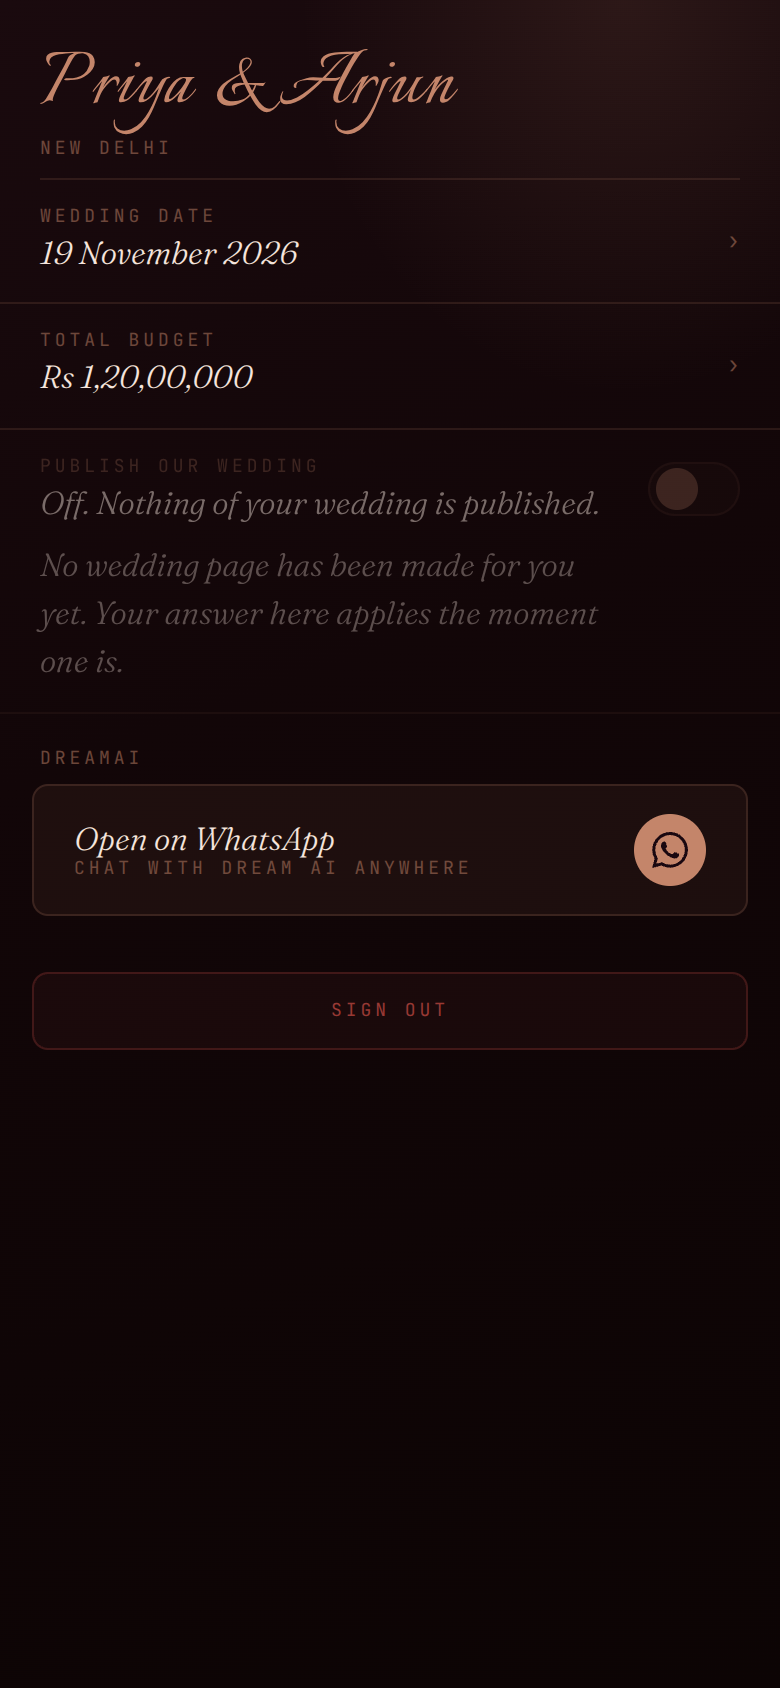
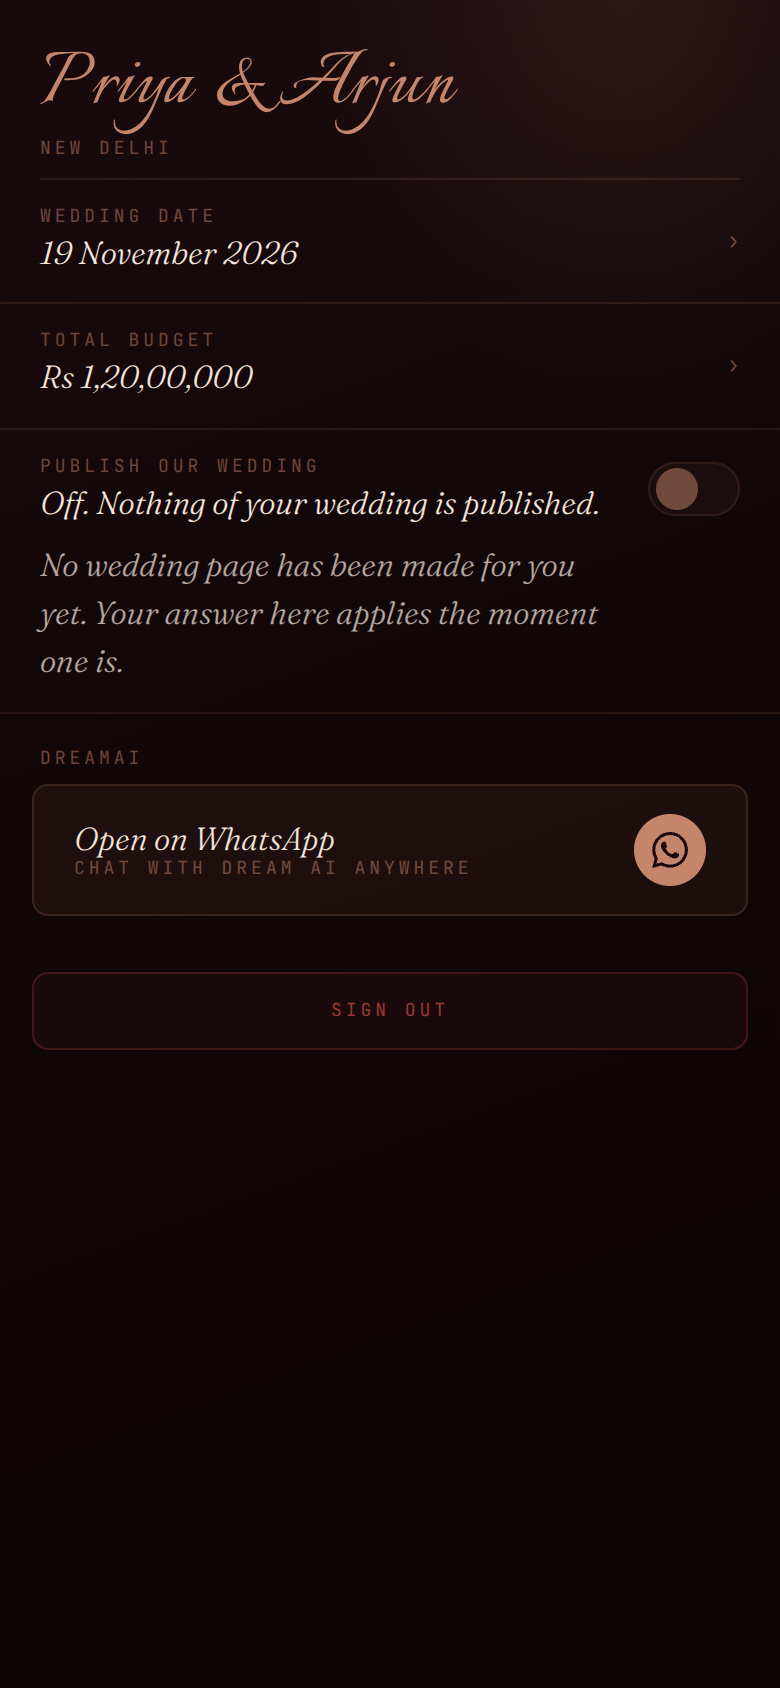
TDW_19 G1.1c mock rider: R-G11c.8 - the switch is always operable. C3 redrawn live, the inert rule deleted, C4 (on, no page) added by the seat and marked. 4 frames, 16 captures. Docs only.

Changed region(s): [[0.0615, 0.2773, 0.7692, 0.4005], [0.8308, 0.2773, 0.8923, 0.3081]]

diff --git a/docs/mocks/couple-switch-mock.html b/docs/mocks/couple-switch-mock.html
@@ -16,7 +16,7 @@
      The subject is `components/frost/blooms/settings.tsx` (SettingsRoom :25),
      mounted at app/(frost)/frost/canvas/sanctuary/page.tsx:1145. Every colour,
      type size, tracking and padding below is TRANSCRIBED from that file at
-     dreamos-pwa 34ec619, not renegotiated:
+     dreamos-pwa 74e875e, not renegotiated:
        dark  bg :28 · ink #F5E5DC :30 · inkSoft rgba(245,229,220,.72) :31
              inkMute rgba(196,133,106,.50) :32 · line rgba(196,133,106,.14) :33
              rowBg rgba(196,133,106,.05) :34 · rowBdr rgba(196,133,106,.12) :35
@@ -68,13 +68,30 @@
      ('Partner', '—', 'Not set yet') where those are null. Stated so the founder
      is not surprised on his own glass.
 
-     ── C3 IS THE RULED STATE, NOT A DECORATION (R-G11c.6) ─────────────────────
-     Visible, NOT operable, until a `weddings` row carries her `couple_id`.
-     `couple_consent` lives only on `weddings` rows (0131:58); with none of them
-     hers there is nowhere for her answer to persist, and an operable switch
-     that reverts on the next mount is the lying control this room already
-     retired once (settings.tsx:167-173). The affordance follows the ROW,
-     never component state.
+     ── THE SWITCH IS ALWAYS OPERABLE (R-G11c.8, superseding R-G11c.6) ────────
+     The first cut of this mock drew C3 DIMMED, because under R-G11c.6 her
+     answer had nowhere to live before a `weddings` row was hers. The chair
+     struck that: a dimmed switch is the greyed control this arc has refused
+     three times, and the cure is a home for the fact rather than a disabled
+     affordance. `0132` gives `couples.publish_weddings boolean NOT NULL
+     DEFAULT false` — her standing answer, hers alone — and `me.js`'s door
+     writes it and `weddings.couple_consent` in the same transaction, while
+     `createWedding` SEEDS consent from it at the moment it resolves her
+     `couple_id` through the engagements spine.
+     SO NOTHING HERE IS EVER GREYED. C3 and C4 draw a LIVE switch beside line 5,
+     and line 5's promise — "your answer here applies the moment one is" — is
+     now literally what the code does rather than a consolation for a control
+     that could not hold its own state.
+
+     ── C4 IS BEYOND THE RULING, AND IS MARKED SO ─────────────────────────────
+     The chair ordered C3 redrawn. C4 (ON, with no page yet) is the SEAT'S
+     ADDITION: once the switch is always operable, ON-with-no-page becomes a
+     reachable production state — it is the ordinary case for any couple who
+     answers before a vendor has made her a page — and its pairing of string 3
+     with string 5 had never been seen. It introduces NO new byte. STRIKE IT
+     FREELY: deleting its <div class="framewrap"> block removes it and its four
+     captures, and nothing else in this file refers to it.
+
      ═══════════════════════════════════════════════════════════════════════ -->
 
 <style>
@@ -153,7 +170,6 @@ body.solo .fr{width:100vw;height:100vh;box-shadow:none;border-radius:0}
 .fr-knob{position:absolute;top:2.5px;width:21px;height:21px;border-radius:50%}
 .fr-track.off .fr-knob{left:2.5px;background:var(--ink-mute)}
 .fr-track.on  .fr-knob{left:22px;background:var(--knob-on)}
-.fr-row.inert{opacity:.45}
 
 /* DreamAi block — settings.tsx :222-241 */
 .fr-sect{padding:10px 0 4px;margin-top:8px}
@@ -277,7 +293,7 @@ body.solo .fr{width:100vw;height:100vh;box-shadow:none;border-radius:0}
           <div class="col"><div class="fr-lbl">Total budget</div><div class="fr-val">Rs 1,20,00,000</div></div>
           <span class="fr-arw">&rsaquo;</span>
         </div>
-        <div class="fr-row fr-sw inert">
+        <div class="fr-row fr-sw">
           <div class="col">
             <div class="fr-lbl">Publish our wedding</div>
             <div class="fr-val">Off. Nothing of your wedding is published.</div>
@@ -298,7 +314,46 @@ body.solo .fr{width:100vw;height:100vh;box-shadow:none;border-radius:0}
         <div class="fr-out"><div>Sign out</div></div>
       </div>
   </div>
-  <div class="cap"><b>C3-nopage &middot; NOT OPERABLE &middot; R-G11c.6</b>String 5 replaces the sub-line. Visible, dimmed, inert: no weddings row is hers, so there is nowhere for an answer to persist.</div>
+  <div class="cap"><b>C3-nopage &middot; OFF &middot; no page yet</b>String 5 replaces the sub-line. The switch is LIVE, not greyed (R-G11c.8): her answer lives on couples.publish_weddings.</div>
+</div>
+<div class="framewrap" data-frame="C4-onnopage">
+  <div class="fr" data-fr-mode="dark">
+      <div class="fr-scroll">
+        <div class="fr-head">
+          <div class="fr-names">Priya &amp; Arjun</div>
+          <div class="fr-city">New Delhi</div>
+        </div>
+        <div class="fr-rule"></div>
+        <div class="fr-row">
+          <div class="col"><div class="fr-lbl">Wedding date</div><div class="fr-val">19 November 2026</div></div>
+          <span class="fr-arw">&rsaquo;</span>
+        </div>
+        <div class="fr-row">
+          <div class="col"><div class="fr-lbl">Total budget</div><div class="fr-val">Rs 1,20,00,000</div></div>
+          <span class="fr-arw">&rsaquo;</span>
+        </div>
+        <div class="fr-row fr-sw">
+          <div class="col">
+            <div class="fr-lbl">Publish our wedding</div>
+            <div class="fr-val">On. Your vendors can publish your wedding page.</div>
+            <div class="fr-sub">No wedding page has been made for you yet. Your answer here applies the moment one is.</div>
+          </div>
+          <div class="fr-track on"><div class="fr-knob"></div></div>
+        </div>
+        <div class="fr-sect">
+          <div class="fr-sect-lbl">DreamAi</div>
+          <div class="fr-wa">
+            <div class="col">
+              <div class="fr-wa-t">Open on WhatsApp</div>
+              <div class="fr-wa-s">Chat with Dream Ai anywhere</div>
+            </div>
+            <div class="fr-wa-i"><svg width="18" height="18" viewBox="0 0 24 24" fill="none"><path d="M17.472 14.382c-.297-.149-1.758-.867-2.03-.967-.273-.099-.471-.148-.67.15-.197.297-.767.966-.94 1.164-.173.199-.347.223-.644.075-.297-.15-1.255-.463-2.39-1.475-.883-.788-1.48-1.761-1.653-2.059-.173-.297-.018-.458.13-.606.134-.133.298-.347.446-.52.149-.174.198-.298.298-.497.099-.198.05-.371-.025-.52-.075-.149-.669-1.612-.916-2.207-.242-.579-.487-.5-.669-.51-.173-.008-.371-.01-.57-.01-.198 0-.52.074-.792.372-.272.297-1.04 1.016-1.04 2.479 0 1.462 1.065 2.875 1.213 3.074.149.198 2.096 3.2 5.077 4.487.709.306 1.262.489 1.694.625.712.227 1.36.195 1.871.118.571-.085 1.758-.719 2.006-1.413.248-.694.248-1.289.173-1.413-.074-.124-.272-.198-.57-.347m-5.421 7.403h-.004a9.87 9.87 0 01-5.031-1.378l-.361-.214-3.741.982.998-3.648-.235-.374a9.86 9.86 0 01-1.51-5.26c.001-5.45 4.436-9.884 9.888-9.884 2.64 0 5.122 1.03 6.988 2.898a9.825 9.825 0 012.893 6.994c-.003 5.45-4.437 9.884-9.885 9.884m8.413-18.297A11.815 11.815 0 0012.05 0C5.495 0 .16 5.335.157 11.892c0 2.096.547 4.142 1.588 5.945L.057 24l6.305-1.654a11.882 11.882 0 005.683 1.448h.005c6.554 0 11.89-5.335 11.893-11.893a11.821 11.821 0 00-3.48-8.413z" fill="currentColor"/></svg></div>
+          </div>
+        </div>
+        <div class="fr-out"><div>Sign out</div></div>
+      </div>
+  </div>
+  <div class="cap"><b>C4-onnopage &middot; ON &middot; no page yet &middot; SEAT'S ADDITION</b>String 3 with string 5. Beyond the chair's order; strike this block freely, no other byte refers to it.</div>
 </div>
 </div>
 
